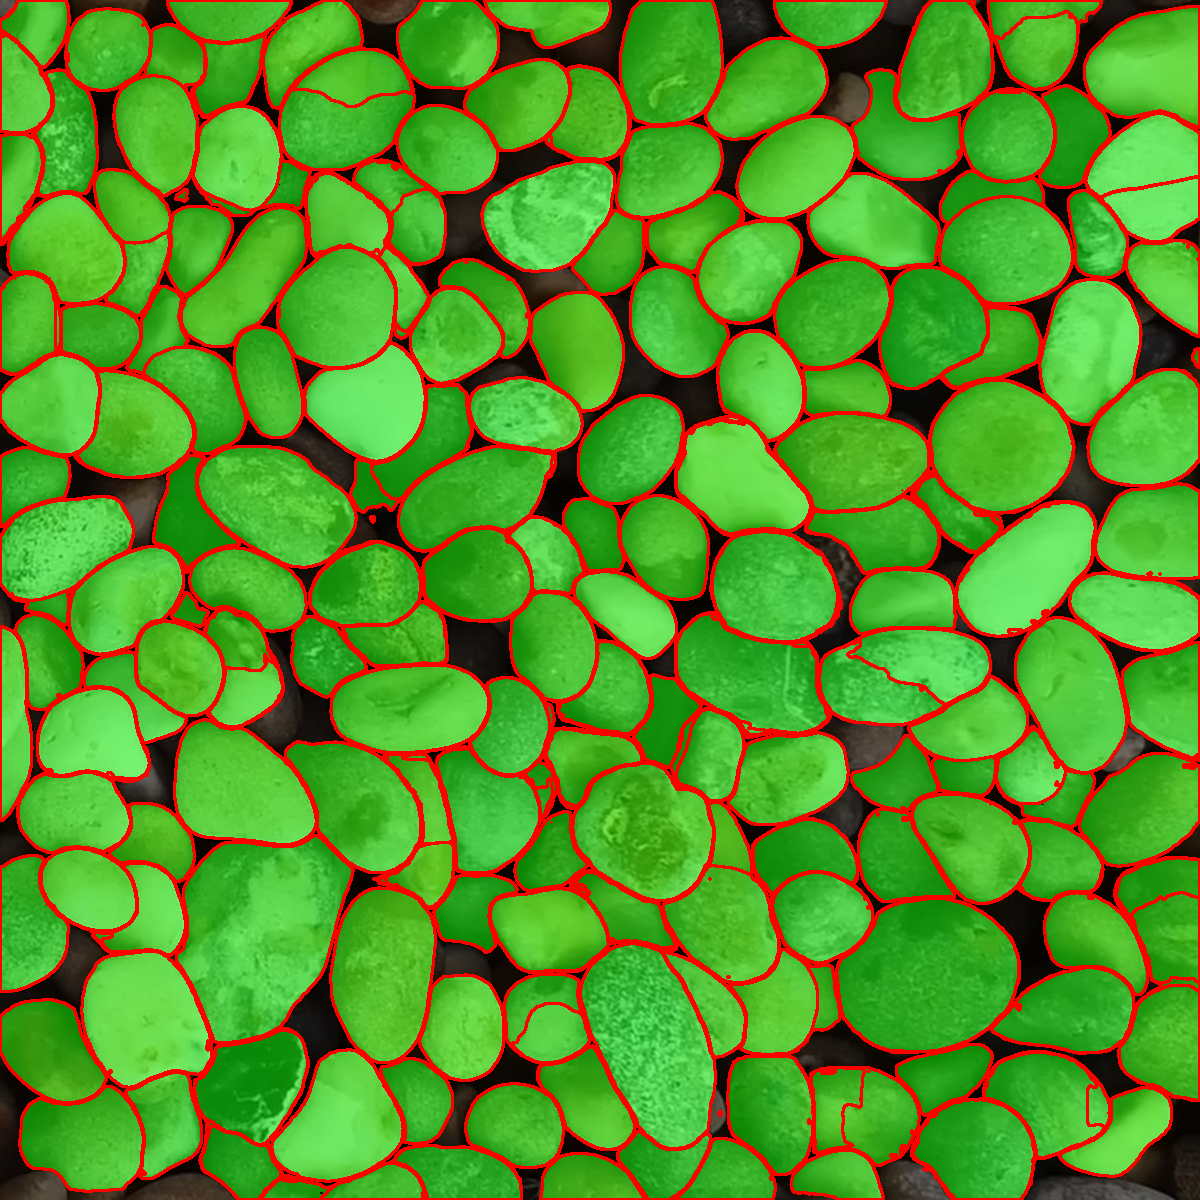
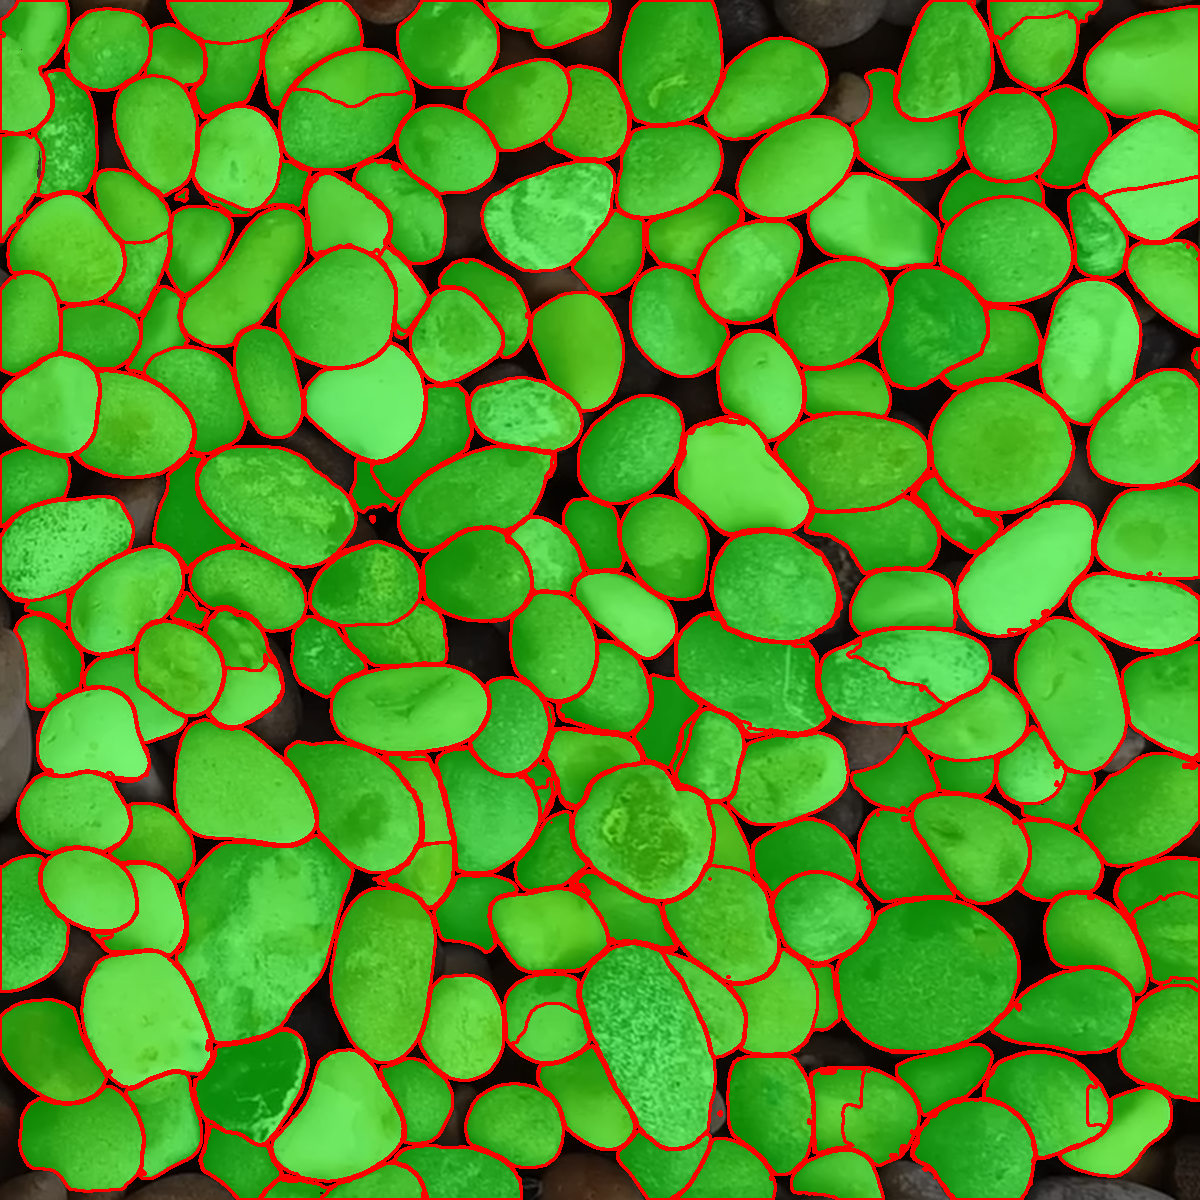
Initial import

diff --git a/shrimpRocks/imgReadme.py b/shrimpRocks/imgReadme.py
@@ -78,10 +78,10 @@ class ImageReadme():
         output_image = samProc.makeOutputImage(image, filtered_masks)
         imageUtils.saveImage(os.path.join(output_dir,f"{fid:02d}_filter_wholeness.png"), output_image)
             
-        # fid, thesefilters = self.appendFilter(thesefilters, "convexity")        
-        # filtered_masks, pebble_data = imageFilters.applyfilters(image, sam_masks_data, thesefilters)        
-        # output_image = samProc.makeOutputImage(image, filtered_masks)
-        # imageUtils.saveImage(os.path.join(output_dir,f"{fid:02d}_filter_convexity.png"), output_image)            
+        fid, thesefilters = self.appendFilter(thesefilters, "convexHull")        
+        filtered_masks, pebble_data = imageFilters.applyfilters(image, sam_masks_data, thesefilters)        
+        output_image = samProc.makeOutputImage(image, filtered_masks)
+        imageUtils.saveImage(os.path.join(output_dir,f"{fid:02d}_filter_convex_hull.png"), output_image)            
         
         fid, thesefilters = self.appendFilter(thesefilters, "complexity")        
         filtered_masks, pebble_data = imageFilters.applyfilters(image, sam_masks_data, thesefilters)        
